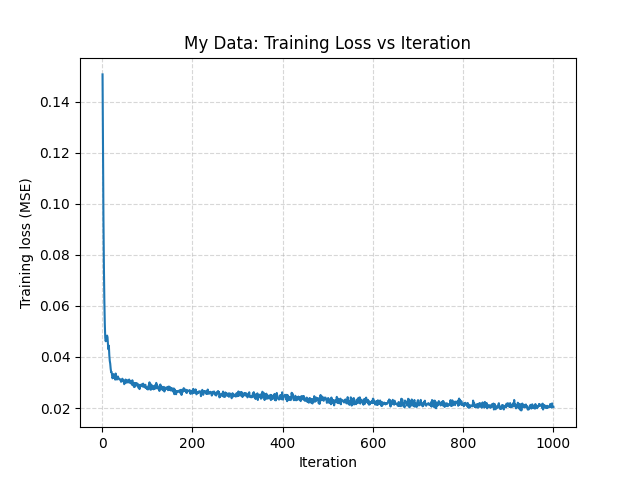
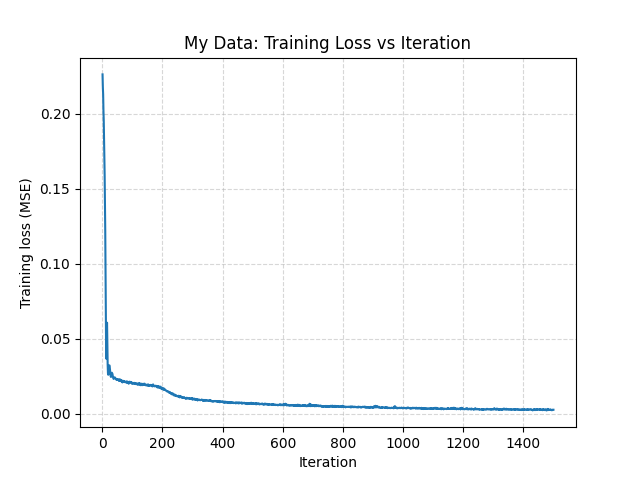
finished project 4

diff --git a/4/index.html b/4/index.html
@@ -270,7 +270,7 @@
     <div class="section">
         <h2>Part 2.6: Training with your own data</h2>
         <p class="description">
-            In this part, I trained the neural radiance field using my own captured data from Part 0. I used the calibrated camera parameters and undistorted images to train the model, following the same procedure as with the Lego scene.
+            In this part, I trained the neural radiance field using my own captured Snorlax images from Part 0. I used the calibrated camera parameters and undistorted images to train the model, following the same procedure as with the Lego scene.
             I kept the hyperparmeters mostly the same, using an Adam optimizer with learning rate 5e-4, 10000 rays per iteration, and 1500 iterations.
             However, the dimensions of my phone's images were 4032x3024, which was causing memory issues, so I rescaled the images to have dimensions of 640x480.
         </p>
@@ -331,7 +331,7 @@
             </figure>
         </div>
         <p class="description">
-            Summary of training results: Overall, the validation PSNR was relatively low (around 16 dB) and the images were pretty blurry, likely due to the fact that I had to downsample my images significantly to avoid memory issues. With higher resolution images and more training iterations, the results could be improved.
+            Summary of training results: Overall, the validation PSNR for the Snorlax scene (around 21dB) was slightly lower compared to the Lego scene and the images were a little more blurry, likely due to the fact that I had to downsample my images significantly to avoid memory issues. With higher resolution images and more training iterations, the results could be improved.
             This suggests that when working with custom data, it can be more challenging to figure out the best hyperparameters and settings to achieve good results and accurate reconstructions.
         </p>
     </div>
